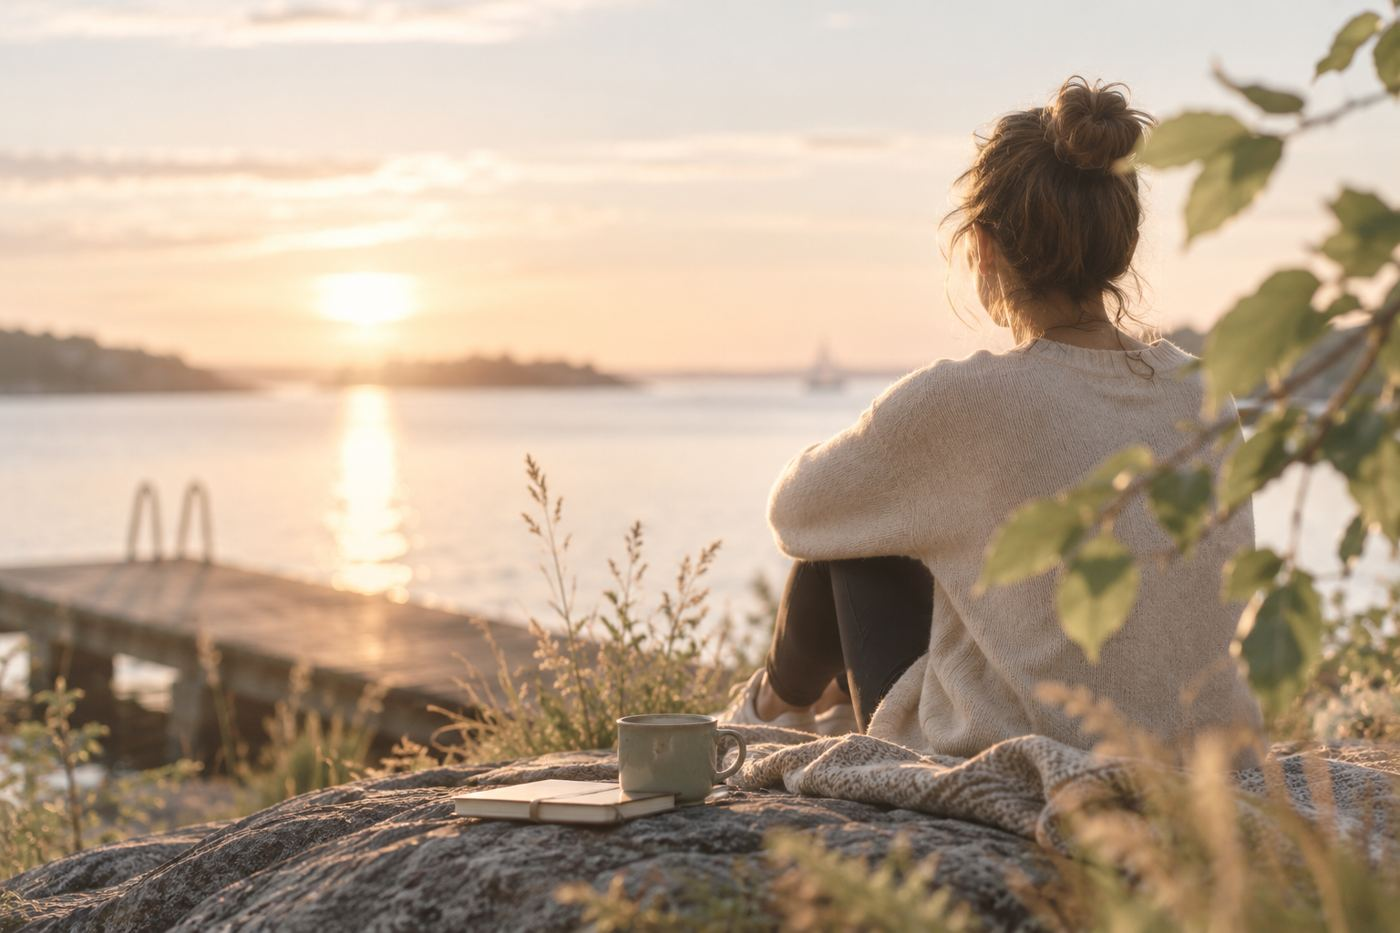
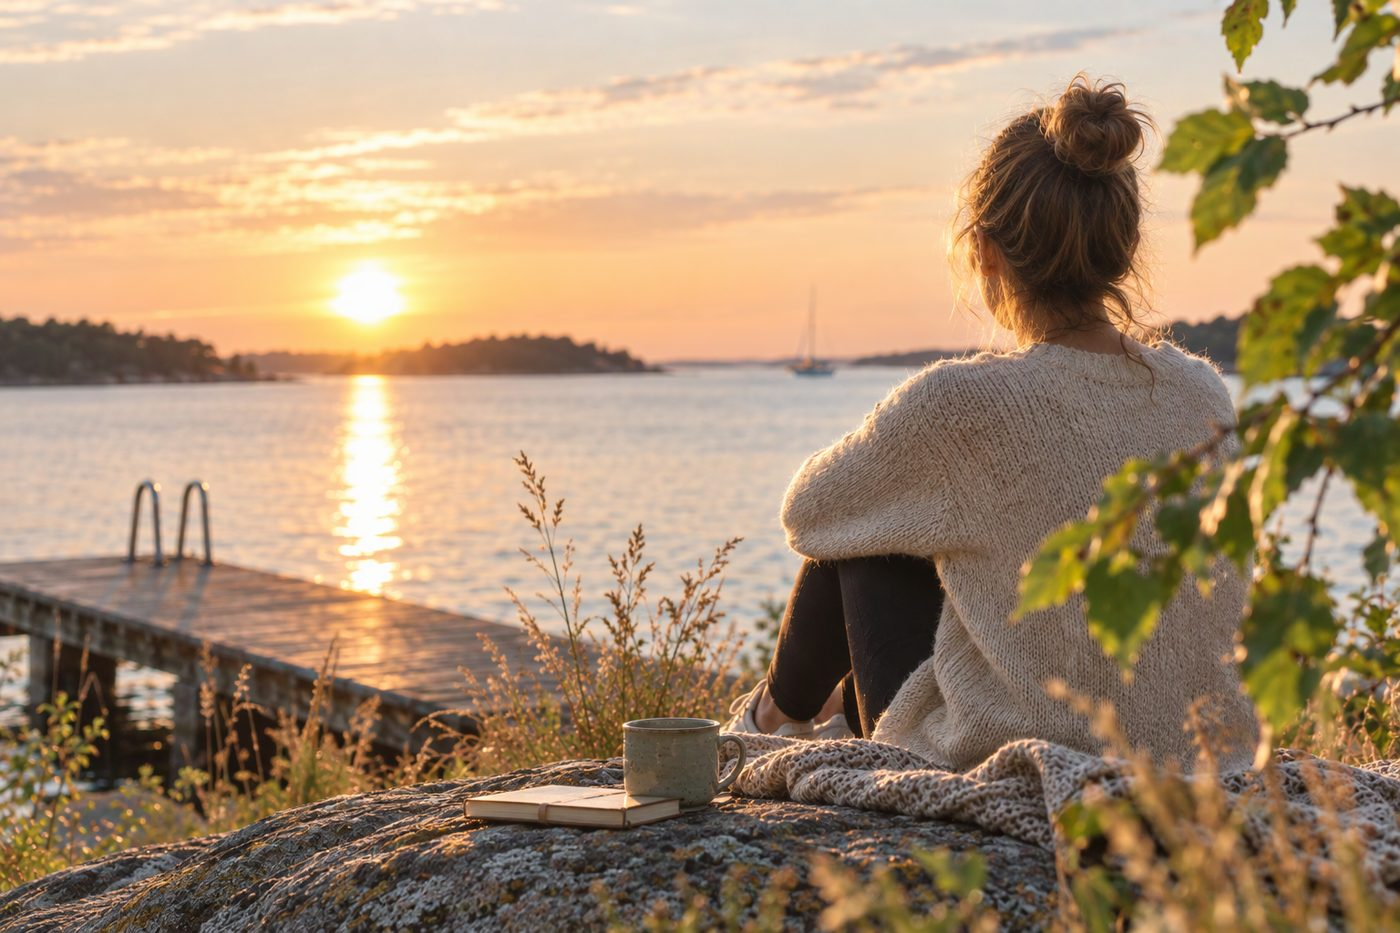
feat: Stockholm in footer, early price hint, new start page photos
- footer says Stockholm instead of Järfälla, Stockholm
- Sense Terapi shows prices in the hero and on the offering cards
- start page images regenerated for a more photographic look

diff --git a/templates/pages/sense-terapi.html b/templates/pages/sense-terapi.html
@@ -12,6 +12,11 @@
           <a class="ts-btn ts-btn--primary" href="#kontakt">Kontakta mig</a>
           <a class="ts-btn ts-btn--ghost" href="#erbjudande">Erbjudande</a>
         </div>
+        <a class="ts-pricehint" href="#priser">
+          <span>Individuell terapi <strong>995&nbsp;kr</strong></span>
+          <span>Parterapi <strong>1&nbsp;495&nbsp;kr</strong></span>
+          <span class="ts-pricehint__more">Se priser</span>
+        </a>
         <div class="ts-statline">
           <span>Socionom sedan 2001</span>
           <span>KBT-terapeut</span>
@@ -28,7 +33,7 @@
         <h2 class="ts-title">Individuellt, i par eller som idrottare.</h2>
         <p class="ts-lead">Upplägget utformas utifrån dina behov och mål. Arbetet bygger på KBT och beprövade metoder, med ett strukturerat och relationsinriktat förhållningssätt.</p>
       </div>
-      <div class="ts-grid">
+      <div class="ts-grid ts-grid--priced">
         <article class="ts-card reveal">
           <span class="ts-icon" aria-hidden="true">
             <svg width="24" height="24" viewBox="0 0 24 24" fill="none" stroke="currentColor" stroke-width="1.6" stroke-linecap="round" stroke-linejoin="round"><path d="M4 5h16v11H9l-5 4z"/></svg>
@@ -36,6 +41,7 @@
           <span class="ts-meta">Individuell terapi</span>
           <h3>KBT och samtalsstöd</h3>
           <p>Individuella samtal med utgångspunkt i kognitiv beteendeterapi. Tillsammans kartlägger vi hur tankar, känslor och handlingar hänger ihop, sätter mål och arbetar stegvis mot en förändring som håller i vardagen. Psykoedukation, kunskap om hur stress, oro och relationer fungerar, är en naturlig del av arbetet.</p>
+          <a class="ts-card__price" href="#priser"><span>50 minuter</span><strong>995&nbsp;kr</strong></a>
         </article>
         <article class="ts-card reveal">
           <span class="ts-icon ts-icon--gold" aria-hidden="true">
@@ -44,6 +50,7 @@
           <span class="ts-meta">Parterapi</span>
           <h3>Samtal för par</h3>
           <p>För par som vill förbättra sin kommunikation, hantera återkommande konflikter eller hitta tillbaka till varandra efter en svår period. Vi arbetar med mönstren i relationen, med respekt för bådas perspektiv, och mot mål som ni sätter tillsammans.</p>
+          <a class="ts-card__price" href="#priser"><span>90 minuter</span><strong>1&nbsp;495&nbsp;kr</strong></a>
         </article>
         <article class="ts-card reveal">
           <span class="ts-icon ts-icon--green" aria-hidden="true">
@@ -52,6 +59,7 @@
           <span class="ts-meta">Idrottspsykologi</span>
           <h3>Mental träning och prestationspsykologi</h3>
           <p>För idrottare och lag som vill prestera under press, hantera motgångar och skador och bygga hållbara rutiner kring träning, tävling och återhämtning. Individuellt eller i grupp, och i samarbete med tränare när det passar.</p>
+          <a class="ts-card__price" href="#priser"><span>Individuellt eller i grupp</span><strong>Enligt förslag</strong></a>
         </article>
       </div>
     </div>

diff --git a/static/assets/css/site.css b/static/assets/css/site.css
@@ -709,6 +709,46 @@ h1.ts-wordmark { font-size: clamp(44px, 7vw, 76px); }
 .ts-prices__meta { font-size: 15px; color: var(--earth); flex: 1; }
 .ts-prices__amount { font-weight: 600; white-space: nowrap; }
 
+/* Price hint in the hero and on the offering cards (Sense Terapi) */
+.ts-pricehint {
+  display: inline-flex;
+  flex-wrap: wrap;
+  justify-content: center;
+  align-items: baseline;
+  gap: var(--space-1) var(--space-5);
+  margin-top: var(--space-5);
+  padding: 10px 22px;
+  border-radius: var(--radius-pill);
+  background: rgba(229, 172, 166, 0.22);
+  color: var(--ink);
+  font-size: 15px;
+  transition: background 0.15s ease;
+}
+@media (max-width: 600px) { .ts-pricehint { border-radius: var(--radius); } }
+.ts-pricehint:hover { text-decoration: none; background: rgba(229, 172, 166, 0.34); }
+.ts-pricehint strong { font-weight: 600; margin-left: 4px; }
+.ts-pricehint__more { color: var(--bbic-rose-ink); font-weight: 600; }
+.ts-pricehint__more::after { content: " \2193"; }
+
+.ts-grid--priced .ts-card { display: flex; flex-direction: column; align-items: flex-start; }
+.ts-card__price {
+  align-self: stretch;
+  display: flex;
+  justify-content: space-between;
+  align-items: baseline;
+  gap: var(--space-3);
+  margin-top: auto;
+  padding-top: var(--space-4);
+  font-size: 15px;
+  color: var(--earth);
+}
+.ts-card__price::before { content: none; }
+.ts-card__price strong { color: var(--ink); font-weight: 600; white-space: nowrap; }
+.ts-card__price:hover { text-decoration: none; }
+.ts-card__price:hover strong { text-decoration: underline; }
+.ts-grid--priced .ts-card p { margin-bottom: var(--space-4); }
+.ts-grid--priced .ts-card__price { border-top: 1px solid var(--hairline); }
+
 /* Icon inside a button (Instagram) */
 .ts-btn--icon { display: inline-flex; align-items: center; gap: 8px; }
 .ts-btn--icon svg { flex: none; }

diff --git a/templates/partials/site-footer.html b/templates/partials/site-footer.html
@@ -7,6 +7,6 @@
       <a href="/sense-terapi/">Sense Terapi</a>
       <a href="/sekretesspolicy/">Sekretesspolicy</a>
     </span>
-    <span>Järfälla, Stockholm</span>
+    <span>Stockholm</span>
   </div>
 </footer>
